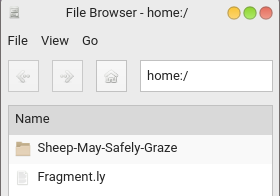
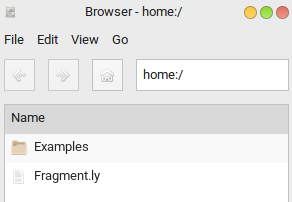
updates

Changed region(s): [[0.0, 0.0, 1.0, 1.0], [0.2286, 0.0306, 0.6857, 0.0918]]

diff --git a/data/index.html b/data/index.html
@@ -72,7 +72,7 @@
 	</p>
 
 	<p>
-	Select Menu -> Utilities -> File Browser, and open the 'Fragment.ly' file.
+	Select Menu -> Development -> Browser, and open the 'Fragment.ly' file.
 	(On Desktop systems, double-click items to open them; on mobile systems, single-click to
 	open).
 	</p>
@@ -108,27 +108,27 @@
 	</p>
     </p>
     <p>
-    <b>Compiling a larger score: Bach Aria</b>
+    <b>A larger score: Mozart Rondo</b>
     </p>
     <p>
     We'll compile a larger score and generate a midi file as well.
     </p>
     <p>
-    In the File Browser, open the 'Sheep.ly' file in the 'Sheep May Safely Graze ' folder.
+    In the File Browser, open the 'Rondo.ly' file in the 'Examples ' folder.
     As before, click 'Compile'.
     </p>
     The PDF is generated:
     <p> 
 	<center>
 	<img src="OMET-PDFViewer.png" border="2"></br>
-	<span class="caption"><i>Fig. 4: PDF score - Bach Aria</i></span>
+	<span class="caption"><i>Fig. 4: PDF score - Mozart Rondo</i></span>
 	</center>
 	</p> 
-	In the File Browser, open the newly-generated 'Sheep.midi' file:
+	In the File Browser, open the newly-generated 'Rondo.midi' file:
 	<p> 
 	<center>
 	<img src="OMET-FolderListing.png" border="2"></br>
-	<span class="caption"><i>Fig. 4: PDF score - Bach Aria</i></span>
+	<span class="caption"><i>Fig. 5: Folder listing</i></span>
 	</center>
 	</p> 
 	</p>
@@ -138,7 +138,7 @@
 	<p> 
 	<center>
 	<img src="OMET-MIDIViewer.png" border="2"></br>
-	<span class="caption"><i>Fig. 5: Midi Player</i></span>
+	<span class="caption"><i>Fig. 6: Midi Player</i></span>
 	</center>
 	</p> 
 	<i>N.B. The midi player needs to download the sound fonts, which may take
